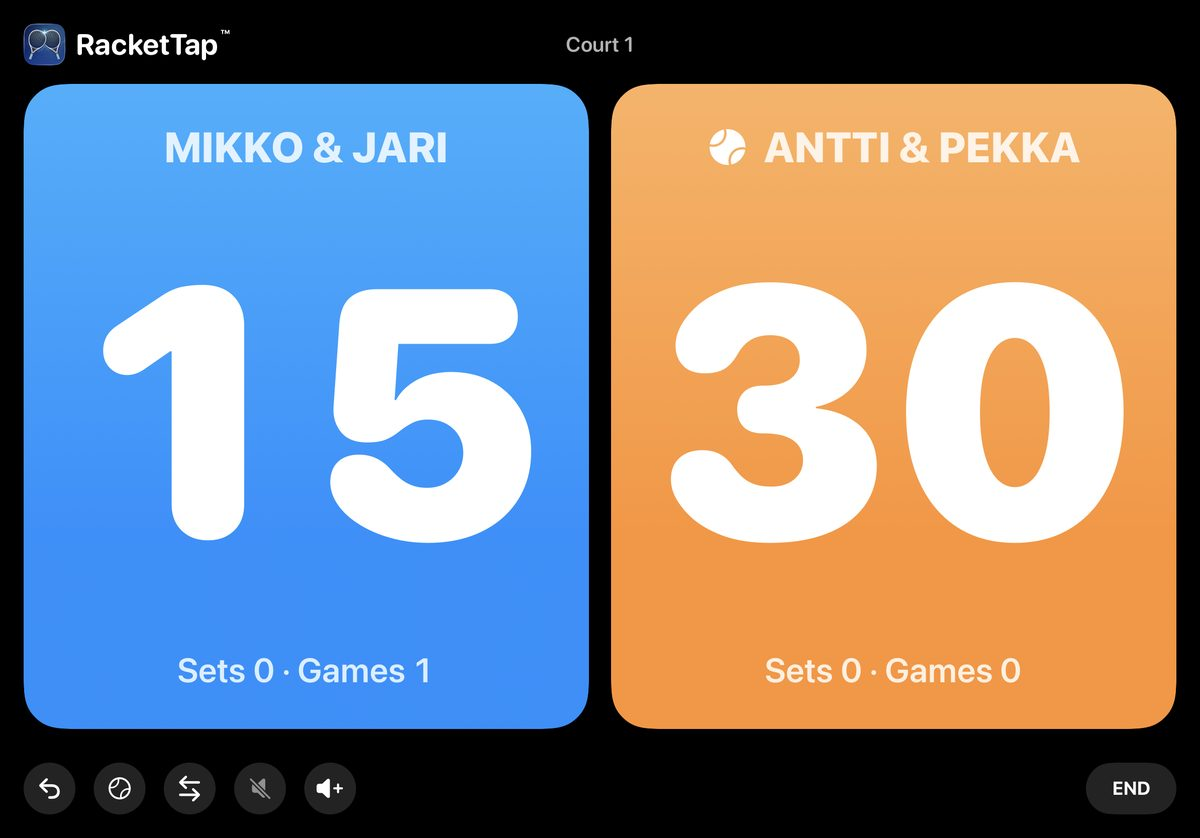
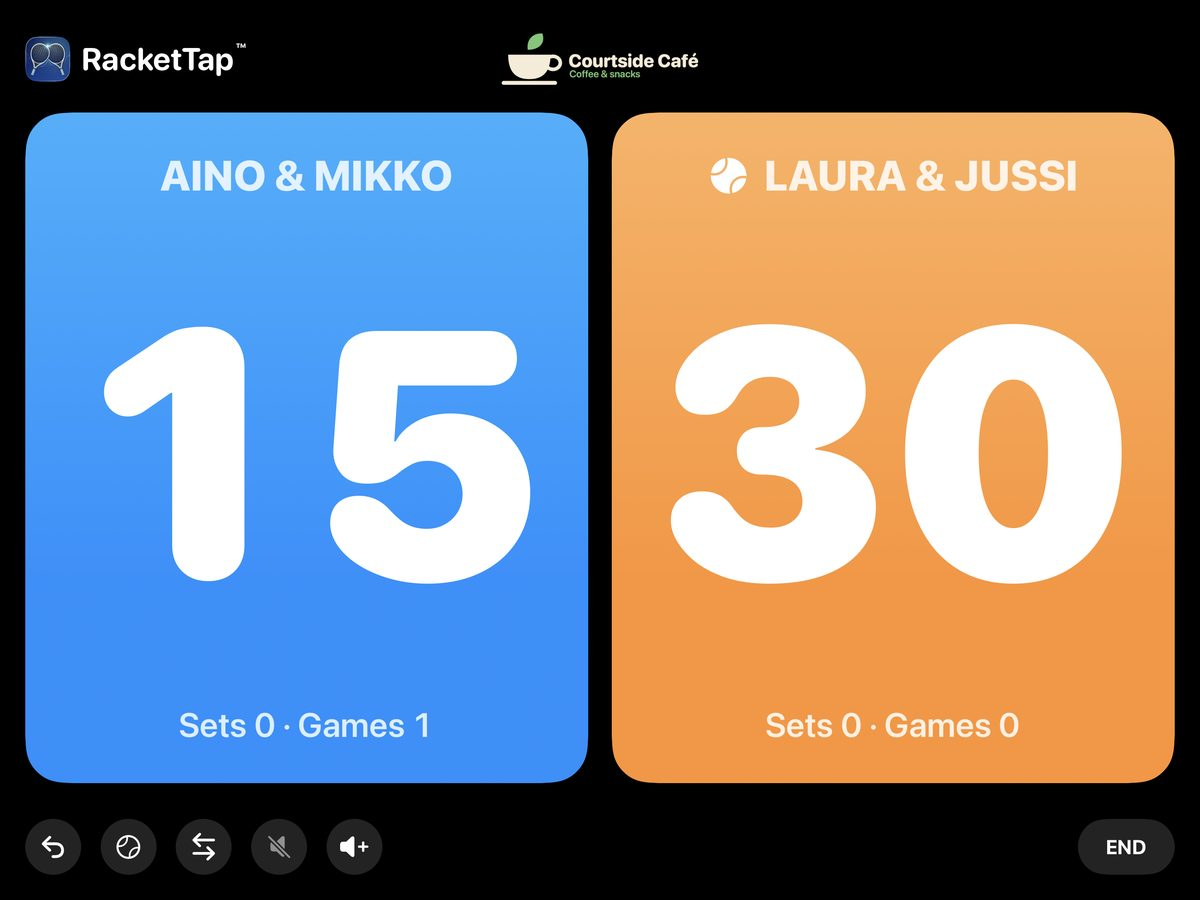
club: Finnish app screens in the Finnish page, new renders for both; plain-language privacy page
Claude-Session: https://claude.ai/code/session_01WkAHPZ1hffC2YnM2d42wR3

diff --git a/club/privacy/index.html b/club/privacy/index.html
@@ -48,41 +48,20 @@
   </header>
 
   <div class="privacy-summary">
-    <p><strong>In short:</strong> Keret Software Oy collects no personal data through RacketTap Club. What the app keeps stays on the court's iPad. The only thing that ever leaves the iPad is a match's live score, and only when the players choose to share it.</p>
+    <p><strong>In short:</strong> We collect no personal data. RacketTap Club has no accounts, no ads, no analytics and no tracking. Your club's information stays on the court's iPad.</p>
   </div>
 
   <h2>Who we are</h2>
   <p>RacketTap Club is made by Keret Software Oy. Questions about this policy: <a href="mailto:matan504@gmail.com">matan504@gmail.com</a>.</p>
 
   <h2>What stays on the iPad</h2>
-  <p>RacketTap Club stores the following only on the court's iPad. None of it is sent to us or to anyone else:</p>
-  <ul>
-    <li><strong>Club settings</strong>: the court name, the default sport, match type and rules, and the voice and language settings.</li>
-    <li><strong>The licence and the admin PIN</strong>, kept in the iPad's Keychain. The PIN is stored only as a salted hash, never as the PIN itself.</li>
-    <li><strong>Sponsor images</strong> that club staff add to the court screen.</li>
-    <li><strong>The court's match log</strong>: the scores and times of matches played on that court, and player names only when the players choose to save them with a match.</li>
-  </ul>
-  <p>RacketTap Club doesn't use Apple Health or the iPad's location.</p>
+  <p>Your club settings, the admin PIN, sponsor images and the court's match history are stored only on the iPad. We never receive them, and nobody else can see them.</p>
 
-  <h2>The live score on phones</h2>
-  <p>During a match, players can tap <em>Share online</em>. The court screen then shows a QR code that opens a live score page in any web browser. To make that page work, the iPad publishes the current match to a record in the public database of Apple's iCloud (CloudKit, container <code>iCloud.com.matankeret.PadelTap</code>). The record is addressed by a long, random link that can't be guessed or listed.</p>
-  <p>The record contains:</p>
-  <ul>
-    <li>the running score: points, games, sets, tie-break points and the scores of finished sets, which side is serving, and the sport and match type;</li>
-    <li>the time the match started;</li>
-    <li>the team or player names typed on the court for that match, if any.</li>
-  </ul>
-  <p>It contains nothing else: no heart rate, no location, no Apple Account details. Anyone with the link can view the page while the match is shared.</p>
-  <p>How long it stays:</p>
-  <ul>
-    <li>When the players tap <em>Stop sharing</em>, or the match is left without being finished, the record is deleted straight away.</li>
-    <li>When the match finishes, the record is marked as ended with the final score, and the live page keeps showing that result for three hours. After that the page no longer shows it, and the iPad deletes the record the next time the app starts.</li>
-    <li>If the app is closed in the middle of a shared match, the iPad deletes that record the next time the app starts after 12 hours.</li>
-  </ul>
-  <p>The record goes only to Apple's iCloud. There are no RacketTap servers and no third-party services involved.</p>
+  <h2>The live score</h2>
+  <p>If the players choose to share a match online, the current score and any team names typed on the court are shown on a web page. Only people who have the link can open it. The page is delivered through Apple's iCloud, and the score is taken down when the match ends or when sharing is stopped.</p>
 
   <h2>No tracking</h2>
-  <p>No accounts, no analytics, no ads, no tracking and no third-party SDKs.</p>
+  <p>No accounts, no ads, no analytics and no tracking. RacketTap Club doesn't use your health data or your location.</p>
 
   <h2>Changes</h2>
   <p>If this policy changes, the new version will be posted on this page with a new date.</p>
@@ -102,41 +81,20 @@
   </header>
 
   <div class="privacy-summary">
-    <p><strong>Lyhyesti:</strong> Keret Software Oy ei kerää RacketTap Clubin kautta henkilötietoja. Sovelluksen tallentamat tiedot pysyvät kentän iPadissa. Ainoa iPadista lähtevä tieto on ottelun live-tulos, ja sekin vain silloin, kun pelaajat itse päättävät jakaa sen.</p>
+    <p><strong>Lyhyesti:</strong> Emme kerää henkilötietoja. RacketTap Clubissa ei ole käyttäjätilejä, mainoksia, analytiikkaa eikä seurantaa. Seuran tiedot pysyvät kentän iPadissa.</p>
   </div>
 
   <h2>Keitä olemme</h2>
   <p>RacketTap Clubin tekee Keret Software Oy. Tätä selostetta koskevat kysymykset: <a href="mailto:matan504@gmail.com">matan504@gmail.com</a>.</p>
 
-  <h2>Mitä iPadiin tallentuu</h2>
-  <p>RacketTap Club tallentaa seuraavat tiedot vain kentän iPadiin. Niitä ei lähetetä meille eikä kenellekään muulle:</p>
-  <ul>
-    <li><strong>Seuran asetukset</strong>: kentän nimi, oletuslaji, ottelutyyppi ja säännöt sekä kuulutuksen ja kielen asetukset.</li>
-    <li><strong>Lisenssi ja ylläpitäjän PIN-koodi</strong> iPadin avainnipussa (Keychain). PIN-koodista tallennetaan vain suolattu tiiviste, ei itse koodia.</li>
-    <li><strong>Sponsorikuvat</strong>, jotka seuran henkilökunta lisää kenttänäytölle.</li>
-    <li><strong>Kentän otteluloki</strong>: kentällä pelattujen otteluiden tulokset ja ajat sekä pelaajien nimet vain, jos pelaajat itse tallentavat ne ottelun yhteyteen.</li>
-  </ul>
-  <p>RacketTap Club ei käytä Apple Health -tietoja eikä iPadin sijaintia.</p>
+  <h2>Mitä iPadiin jää</h2>
+  <p>Seuran asetukset, ylläpitäjän PIN-koodi, sponsorikuvat ja kentän otteluhistoria tallentuvat vain iPadiin. Emme saa niitä itsellemme, eikä kukaan muu näe niitä.</p>
 
-  <h2>Live-tulos puhelimissa</h2>
-  <p>Ottelun aikana pelaajat voivat napauttaa <em>Jaa verkossa</em>. Kenttänäytölle tulee QR-koodi, joka avaa live-tulossivun millä tahansa selaimella. Jotta sivu toimisi, iPad julkaisee käynnissä olevan ottelun tietueena Applen iCloudin julkiseen tietokantaan (CloudKit, säilö <code>iCloud.com.matankeret.PadelTap</code>). Tietueen osoite on pitkä satunnainen linkki, jota ei voi arvata eikä listata.</p>
-  <p>Tietue sisältää:</p>
-  <ul>
-    <li>ottelun tilanteen: pisteet, pelit, erät, tiebreak-pisteet ja päättyneiden erien tulokset, syöttövuoron sekä lajin ja ottelutyypin;</li>
-    <li>ottelun alkamisajan;</li>
-    <li>kentällä kyseiselle ottelulle kirjoitetut joukkueiden tai pelaajien nimet, jos niitä on.</li>
-  </ul>
-  <p>Muuta se ei sisällä: ei sykettä, ei sijaintia eikä Apple-tilin tietoja. Kuka tahansa linkin saanut voi katsoa sivua niin kauan kuin ottelu on jaettuna.</p>
-  <p>Kuinka kauan tieto säilyy:</p>
-  <ul>
-    <li>Kun pelaajat napauttavat <em>Lopeta jakaminen</em> tai ottelu jätetään kesken, tietue poistetaan heti.</li>
-    <li>Kun ottelu päättyy, tietue merkitään päättyneeksi lopputuloksineen, ja live-sivu näyttää tuloksen kolmen tunnin ajan. Sen jälkeen sivu ei enää näytä sitä, ja iPad poistaa tietueen seuraavan kerran, kun sovellus käynnistyy.</li>
-    <li>Jos sovellus suljetaan kesken jaetun ottelun, iPad poistaa tietueen, kun sovellus käynnistyy seuraavan kerran 12 tunnin kuluttua.</li>
-  </ul>
-  <p>Tietue menee vain Applen iCloudiin. Käytössä ei ole RacketTapin omia palvelimia eikä kolmansien osapuolten palveluja.</p>
+  <h2>Live-tulos</h2>
+  <p>Jos pelaajat päättävät jakaa ottelun verkossa, ottelun tilanne ja kentällä kirjoitetut joukkueiden nimet näkyvät verkkosivulla. Sivun voi avata vain se, jolla on linkki. Sivu toimitetaan Applen iCloudin kautta, ja tulos poistetaan, kun ottelu päättyy tai jakaminen lopetetaan.</p>
 
   <h2>Ei seurantaa</h2>
-  <p>Ei käyttäjätilejä, ei analytiikkaa, ei mainoksia, ei seurantaa eikä kolmansien osapuolten ohjelmistokirjastoja.</p>
+  <p>Ei käyttäjätilejä, ei mainoksia, ei analytiikkaa eikä seurantaa. RacketTap Club ei käytä terveystietojasi eikä sijaintiasi.</p>
 
   <h2>Muutokset</h2>
   <p>Jos seloste muuttuu, uusi versio julkaistaan tällä sivulla uudella päivämäärällä.</p>

diff --git a/club/index.html b/club/index.html
@@ -88,11 +88,11 @@
       </div>
       <div class="hero-visual">
         <div class="ipad">
-          <img src="img/court-scoreboard-1400.webp"
-               srcset="img/court-scoreboard-800.webp 800w, img/court-scoreboard-1400.webp 1400w"
+          <img src="img/court-scoreboard-en-1400.webp"
+               srcset="img/court-scoreboard-en-800.webp 800w, img/court-scoreboard-en-1400.webp 1400w"
                sizes="(max-width: 860px) 92vw, 600px"
-               width="1400" height="978"
-               alt="The court iPad during a padel match on Court 1: Mikko and Jari on blue have 15, Antti and Pekka on orange have 30.">
+               width="1400" height="1050"
+               alt="The court iPad during a padel match on Court 1: Aino and Mikko on blue have 15, Laura and Jussi on orange have 30.">
         </div>
         <div class="float-card voice" aria-hidden="true">
           <span class="fc-icon"><svg><use href="#i-voice"/></svg></span>
@@ -210,15 +210,15 @@
     </div>
     <div class="showcase">
       <figure class="shot">
-        <div class="ipad"><img src="img/court-start-800.webp" srcset="img/court-start-800.webp 800w, img/court-start-1400.webp 1400w" sizes="(max-width: 860px) 92vw, 540px" width="800" height="559" loading="lazy" alt="The court's start screen: Court 1, the match options, and a large green Tap to start button."></div>
+        <div class="ipad"><img src="img/court-start-en-800.webp" srcset="img/court-start-en-800.webp 800w, img/court-start-en-1400.webp 1400w" sizes="(max-width: 860px) 92vw, 540px" width="800" height="600" loading="lazy" alt="The court's start screen: Court 1, the match options, and a large green Tap to start button."></div>
         <figcaption><strong>Tap to start</strong><span>Players choose a match, Mixing, Americano or a tiebreak, add their names if they like, and start with a tap or a button press.</span></figcaption>
       </figure>
       <figure class="shot">
-        <div class="ipad"><img src="img/court-starpoint-800.webp" srcset="img/court-starpoint-800.webp 800w, img/court-starpoint-1400.webp 1400w" sizes="(max-width: 860px) 92vw, 540px" width="800" height="559" loading="lazy" alt="The scoreboard at 40–40 with the Star Point banner highlighted in yellow."></div>
+        <div class="ipad"><img src="img/court-starpoint-en-800.webp" srcset="img/court-starpoint-en-800.webp 800w, img/court-starpoint-en-1400.webp 1400w" sizes="(max-width: 860px) 92vw, 540px" width="800" height="600" loading="lazy" alt="The scoreboard at 40–40 with the Star Point banner highlighted in yellow."></div>
         <figcaption><strong>The rules, handled</strong><span>Star Point, tie-breaks, sets and games are kept for the players, in big numbers.</span></figcaption>
       </figure>
       <figure class="shot">
-        <div class="ipad"><img src="img/court-result-800.webp" srcset="img/court-result-800.webp 800w, img/court-result-1400.webp 1400w" sizes="(max-width: 860px) 92vw, 540px" width="800" height="559" loading="lazy" alt="The result screen: Orange wins, decided by a tie-break."></div>
+        <div class="ipad"><img src="img/court-result-en-800.webp" srcset="img/court-result-en-800.webp 800w, img/court-result-en-1400.webp 1400w" sizes="(max-width: 860px) 92vw, 540px" width="800" height="600" loading="lazy" alt="The result screen: Blue wins 4–0, with the sponsor logo above."></div>
         <figcaption><strong>A clear result</strong><span>The final score stays on screen until the next players tap to continue.</span></figcaption>
       </figure>
       <figure class="shot">
@@ -351,11 +351,11 @@
       </div>
       <div class="hero-visual">
         <div class="ipad">
-          <img src="img/court-scoreboard-1400.webp"
-               srcset="img/court-scoreboard-800.webp 800w, img/court-scoreboard-1400.webp 1400w"
+          <img src="img/court-scoreboard-fi-1400.webp"
+               srcset="img/court-scoreboard-fi-800.webp 800w, img/court-scoreboard-fi-1400.webp 1400w"
                sizes="(max-width: 860px) 92vw, 600px"
-               width="1400" height="978"
-               alt="Kentän 1 iPad padel-ottelun aikana: sinisellä Mikko ja Jari, 15, oranssilla Antti ja Pekka, 30.">
+               width="1400" height="1050"
+               alt="Kentän 1 iPad padel-ottelun aikana: sinisellä Aino ja Mikko, 15, oranssilla Laura ja Jussi, 30.">
         </div>
         <div class="float-card voice" aria-hidden="true">
           <span class="fc-icon"><svg><use href="#i-voice"/></svg></span>
@@ -473,15 +473,15 @@
     </div>
     <div class="showcase">
       <figure class="shot">
-        <div class="ipad"><img src="img/court-start-800.webp" srcset="img/court-start-800.webp 800w, img/court-start-1400.webp 1400w" sizes="(max-width: 860px) 92vw, 540px" width="800" height="559" loading="lazy" alt="Kentän aloitusnäyttö: kenttä 1, ottelun vaihtoehdot ja iso vihreä aloituspainike."></div>
+        <div class="ipad"><img src="img/court-start-fi-800.webp" srcset="img/court-start-fi-800.webp 800w, img/court-start-fi-1400.webp 1400w" sizes="(max-width: 860px) 92vw, 540px" width="800" height="600" loading="lazy" alt="Kentän aloitusnäyttö: kenttä 1, ottelun vaihtoehdot ja iso vihreä aloituspainike."></div>
         <figcaption><strong>Aloitus yhdellä napautuksella</strong><span>Pelaajat valitsevat ottelun, Mixingin, Americanon tai tiebreakin, lisäävät halutessaan nimensä ja aloittavat napautuksella tai painikkeella.</span></figcaption>
       </figure>
       <figure class="shot">
-        <div class="ipad"><img src="img/court-starpoint-800.webp" srcset="img/court-starpoint-800.webp 800w, img/court-starpoint-1400.webp 1400w" sizes="(max-width: 860px) 92vw, 540px" width="800" height="559" loading="lazy" alt="Tulostaulu tilanteessa 40–40, keltainen Star Point -kehys korostettuna."></div>
+        <div class="ipad"><img src="img/court-starpoint-fi-800.webp" srcset="img/court-starpoint-fi-800.webp 800w, img/court-starpoint-fi-1400.webp 1400w" sizes="(max-width: 860px) 92vw, 540px" width="800" height="600" loading="lazy" alt="Tulostaulu tilanteessa 40–40, keltainen Tähtipiste-kehys korostettuna."></div>
         <figcaption><strong>Säännöt hoituvat</strong><span>Star Point, tiebreakit, erät ja pelit pysyvät kirjassa isoin numeroin.</span></figcaption>
       </figure>
       <figure class="shot">
-        <div class="ipad"><img src="img/court-result-800.webp" srcset="img/court-result-800.webp 800w, img/court-result-1400.webp 1400w" sizes="(max-width: 860px) 92vw, 540px" width="800" height="559" loading="lazy" alt="Tulosnäyttö: oranssi voittaa, ratkaistu tiebreakissa."></div>
+        <div class="ipad"><img src="img/court-result-fi-800.webp" srcset="img/court-result-fi-800.webp 800w, img/court-result-fi-1400.webp 1400w" sizes="(max-width: 860px) 92vw, 540px" width="800" height="600" loading="lazy" alt="Tulosnäyttö: sininen voittaa 4–0, sponsorin logo yllä."></div>
         <figcaption><strong>Selkeä lopputulos</strong><span>Lopputulos pysyy näytöllä, kunnes seuraavat pelaajat napauttavat jatkaakseen.</span></figcaption>
       </figure>
       <figure class="shot">
